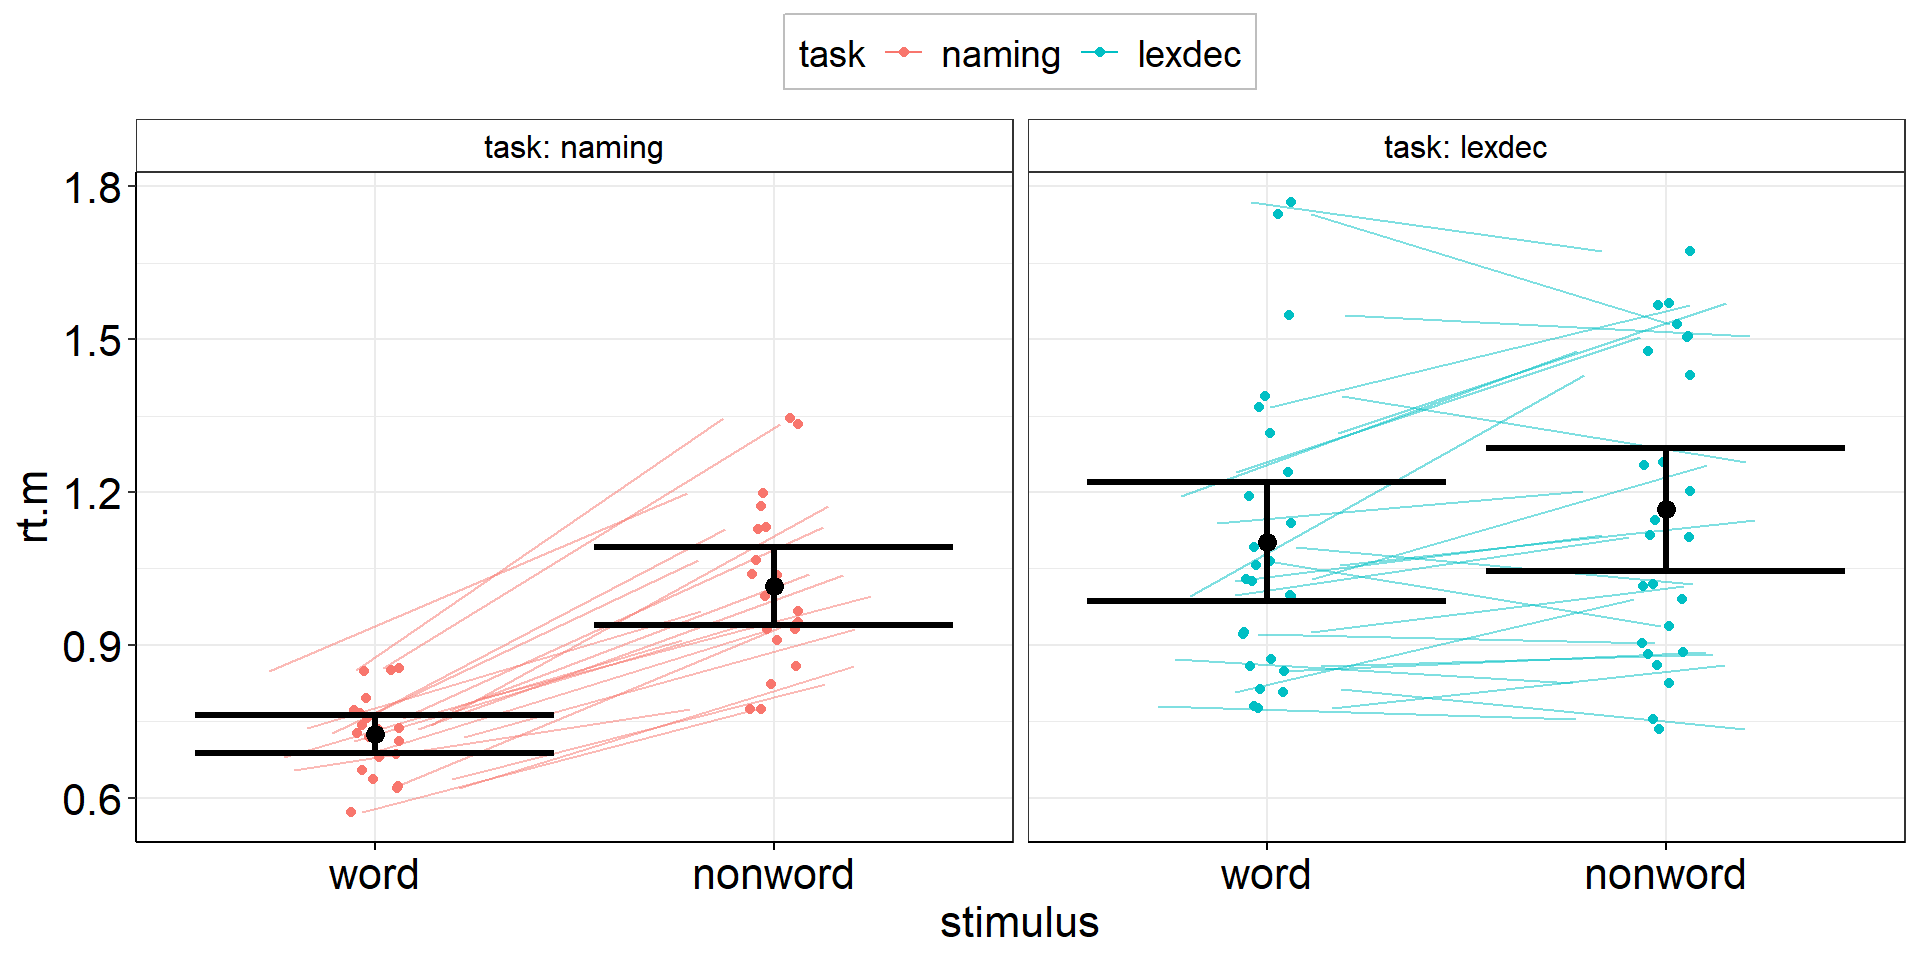
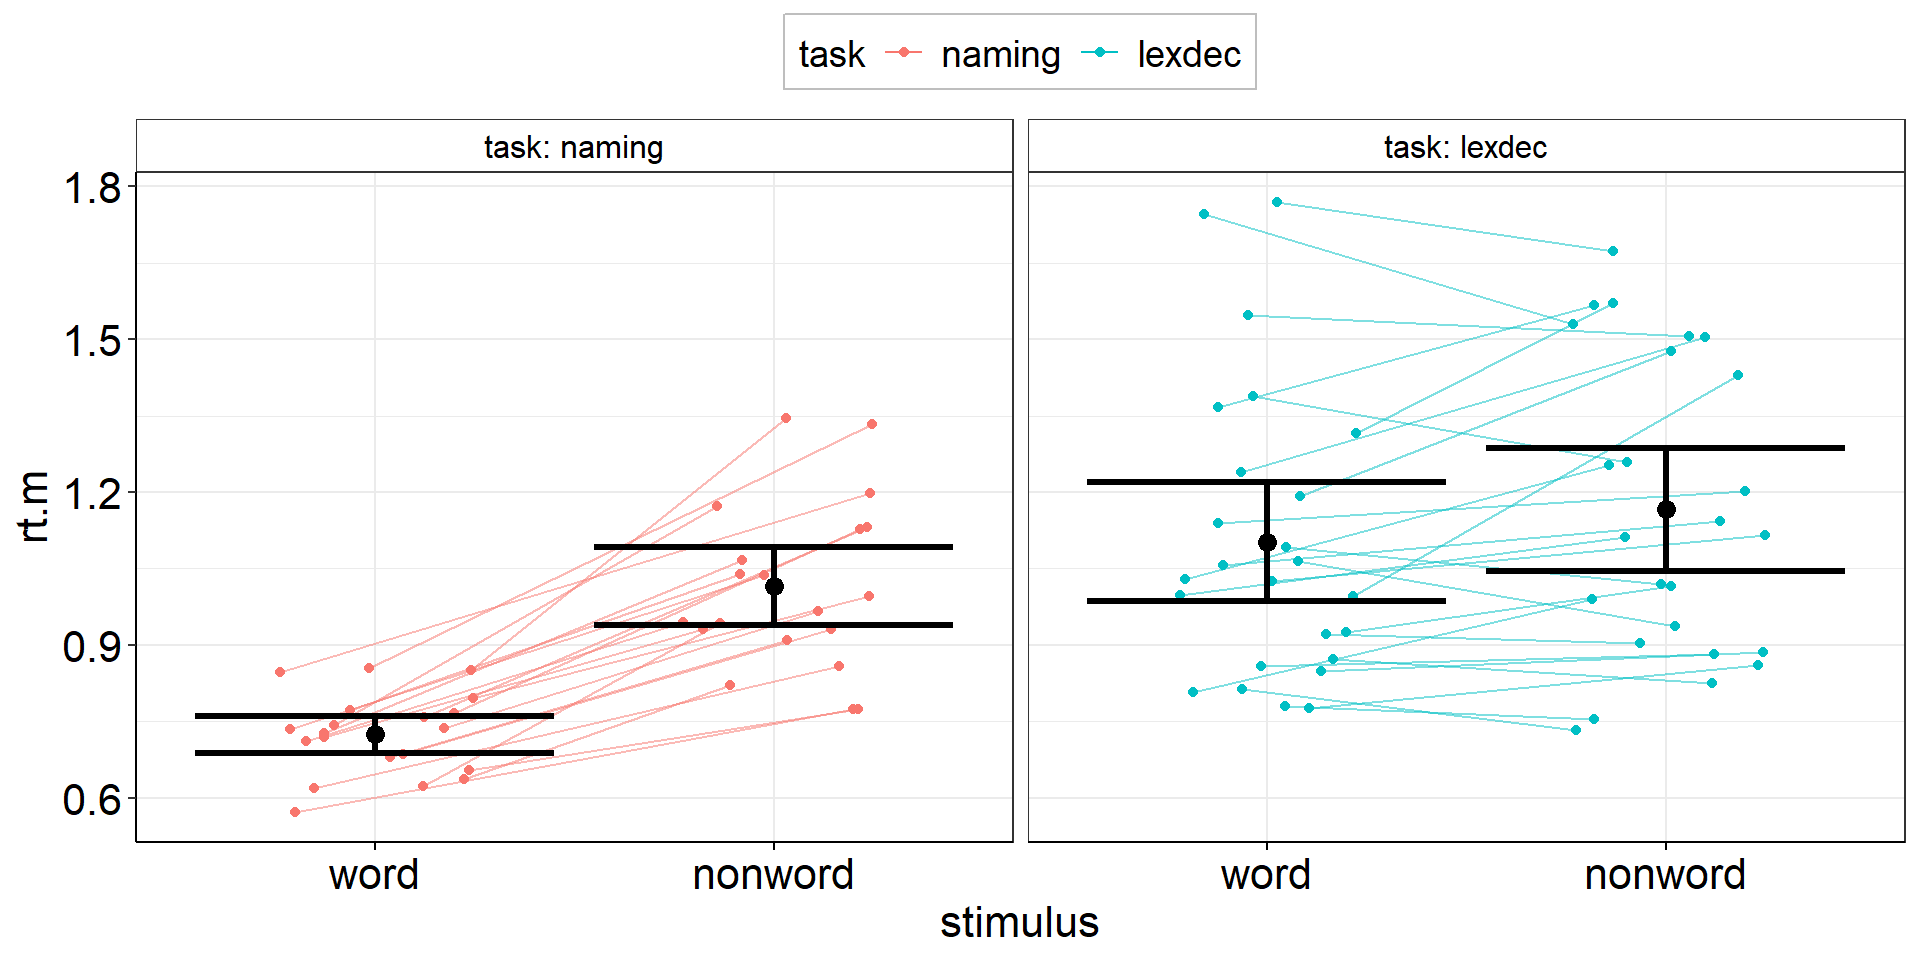
reveal code line numbers + adjust comments

diff --git a/docs/2.3_Uncertainty_Viz.html b/docs/2.3_Uncertainty_Viz.html
@@ -1218,6 +1218,35 @@ But, hey! It's at least one additional level of information! &#128517;
 <span id="cb35-6"><a></a>  )</span></code><button title="Copy to Clipboard" class="code-copy-button"><i class="bi"></i></button></pre></div>
 </div>
 
+</section>
+<section id="jittered-points-output" class="slide level2 output-location-slide"><h2>Jittered Points</h2><div class="cell output-location-slide">
+<div class="cell-output-display">
+<div>
+<figure>
+<p><img data-src="2.3_Uncertainty_Viz_files/figure-revealjs/unnamed-chunk-37-1.png" width="960"></p>
+</figure>
+</div>
+</div>
+</div></section><section id="jittered-points-with-individual-slopes" class="slide level2">
+<h2>Jittered Points with Individual Slopes</h2>
+<p>Only <code>geom_path()</code> is able to align points + lines! <code>geom_line()</code> will not work here. (Ordering can be important: <code>geom_path()</code> connects the observations in the order in which they appear in the data.)</p>
+<div class="cell">
+<div class="sourceCode cell-code" id="cb36" data-code-line-numbers="2-5|6-10|4,9"><pre class="sourceCode numberSource r number-lines code-with-copy"><code class="sourceCode r"><span id="cb36-1"><a></a>aov3 <span class="sc">+</span></span>
+<span id="cb36-2"><a></a>  <span class="fu">geom_jitter</span>(</span>
+<span id="cb36-3"><a></a>    <span class="at">data =</span> fhch2010_summary <span class="sc">%&gt;%</span> <span class="fu">rename</span>(<span class="at">rt.m =</span> rt),</span>
+<span id="cb36-4"><a></a>    <span class="at">position =</span> <span class="fu">position_jitter</span>(<span class="at">width =</span> .<span class="dv">25</span>, <span class="at">seed =</span> <span class="dv">1337</span>), <span class="co">#same seed needed!</span></span>
+<span id="cb36-5"><a></a>  ) <span class="sc">+</span></span>
+<span id="cb36-6"><a></a>  <span class="fu">geom_path</span>( <span class="co">#add individual slopes</span></span>
+<span id="cb36-7"><a></a>    <span class="at">data =</span> fhch2010_summary <span class="sc">%&gt;%</span> <span class="fu">rename</span>(<span class="at">rt.m =</span> rt), </span>
+<span id="cb36-8"><a></a>    <span class="fu">aes</span>(<span class="at">group =</span> id),</span>
+<span id="cb36-9"><a></a>    <span class="at">position =</span> <span class="fu">position_jitter</span>(<span class="at">width =</span> .<span class="dv">25</span>, <span class="at">seed =</span> <span class="dv">1337</span>), <span class="co">#same seed needed!</span></span>
+<span id="cb36-10"><a></a>    <span class="at">alpha =</span> .<span class="dv">5</span>) <span class="sc">+</span></span>
+<span id="cb36-11"><a></a>  <span class="co">#plot group-level information again (on top) but black and bigger</span></span>
+<span id="cb36-12"><a></a>  <span class="fu">geom_point</span>(<span class="at">position =</span> <span class="fu">position_dodge</span>(.<span class="dv">9</span>), <span class="at">color =</span> <span class="st">"black"</span>, <span class="at">size =</span> <span class="dv">3</span>) <span class="sc">+</span> </span>
+<span id="cb36-13"><a></a>  <span class="fu">geom_errorbar</span>(<span class="fu">aes</span>(<span class="at">ymin =</span> rt.m.low, <span class="at">ymax =</span> rt.m.high), <span class="at">position =</span> <span class="fu">position_dodge</span>(.<span class="dv">9</span>), </span>
+<span id="cb36-14"><a></a>                <span class="at">color =</span> <span class="st">"black"</span>, <span class="at">size =</span> <span class="fl">1.125</span>)</span></code><button title="Copy to Clipboard" class="code-copy-button"><i class="bi"></i></button></pre></div>
+</div>
+
 <!--
 ## Jittered Points with Individual Slopes
 
@@ -1246,7 +1275,7 @@ aov3 +
 ```
 
 ::: {.cell-output-display}
-![](2.3_Uncertainty_Viz_files/figure-revealjs/unnamed-chunk-38-1.png){width=960}
+![](2.3_Uncertainty_Viz_files/figure-revealjs/unnamed-chunk-39-1.png){width=960}
 :::
 :::
 
@@ -1259,38 +1288,38 @@ fhch2010_summary %>%
 ```
 
 ::: {.cell-output-display}
-![](2.3_Uncertainty_Viz_files/figure-revealjs/unnamed-chunk-39-1.png){width=960}
+![](2.3_Uncertainty_Viz_files/figure-revealjs/unnamed-chunk-40-1.png){width=960}
 :::
 :::
 
 -->
 </section>
-<section id="jittered-points-output" class="slide level2 output-location-slide"><h2>Jittered Points</h2><div class="cell output-location-slide">
+<section id="jittered-points-with-individual-slopes-output" class="slide level2 output-location-slide"><h2>Jittered Points with Individual Slopes</h2><div class="cell output-location-slide">
 <div class="cell-output-display">
 <div>
 <figure>
-<p><img data-src="2.3_Uncertainty_Viz_files/figure-revealjs/unnamed-chunk-37-1.png" width="960"></p>
+<p><img data-src="2.3_Uncertainty_Viz_files/figure-revealjs/unnamed-chunk-38-1.png" width="960"></p>
 </figure>
 </div>
 </div>
 </div></section><section id="density" class="slide level2">
 <h2>Density</h2>
 <div class="cell">
-<div class="sourceCode cell-code" id="cb36" data-code-line-numbers="2"><pre class="sourceCode numberSource r number-lines code-with-copy"><code class="sourceCode r"><span id="cb36-1"><a></a>aov3 <span class="sc">+</span></span>
-<span id="cb36-2"><a></a>  <span class="fu">geom_violin</span>( <span class="co"># experts can try ggbeeswarm::geom_beeswarm()</span></span>
-<span id="cb36-3"><a></a>    <span class="at">data =</span> fhch2010_summary <span class="sc">%&gt;%</span> <span class="fu">rename</span>(<span class="at">rt.m =</span> rt), <span class="co">#conform to naming in aov3</span></span>
-<span id="cb36-4"><a></a>    <span class="co">#aes(y = rt.m, x = stimulus), #inherited from aov3</span></span>
-<span id="cb36-5"><a></a>    <span class="fu">aes</span>(<span class="at">fill =</span> task), <span class="co">#dotplot dots have color = outer border, fill = inner color</span></span>
-<span id="cb36-6"><a></a>    <span class="at">alpha =</span> .<span class="dv">5</span></span>
-<span id="cb36-7"><a></a>  ) <span class="sc">+</span></span>
-<span id="cb36-8"><a></a>  <span class="fu">geom_line</span>( <span class="co">#add individual slopes</span></span>
-<span id="cb36-9"><a></a>    <span class="at">data =</span> fhch2010_summary <span class="sc">%&gt;%</span> <span class="fu">rename</span>(<span class="at">rt.m =</span> rt), <span class="co">#conform to naming in aov3</span></span>
-<span id="cb36-10"><a></a>    <span class="fu">aes</span>(<span class="at">group =</span> id), <span class="co">#one line for each subject; sometimes you need: group = interaction(id, task)</span></span>
-<span id="cb36-11"><a></a>    <span class="at">alpha =</span> .<span class="dv">5</span>) <span class="sc">+</span></span>
-<span id="cb36-12"><a></a>  <span class="co">#plot group-level information again (on top) but black and bigger</span></span>
-<span id="cb36-13"><a></a>  <span class="fu">geom_point</span>(<span class="at">position =</span> <span class="fu">position_dodge</span>(.<span class="dv">9</span>), <span class="at">color =</span> <span class="st">"black"</span>, <span class="at">size =</span> <span class="dv">3</span>) <span class="sc">+</span> </span>
-<span id="cb36-14"><a></a>  <span class="fu">geom_errorbar</span>(<span class="fu">aes</span>(<span class="at">ymin =</span> rt.m.low, <span class="at">ymax =</span> rt.m.high), <span class="at">position =</span> <span class="fu">position_dodge</span>(.<span class="dv">9</span>), </span>
-<span id="cb36-15"><a></a>                <span class="at">color =</span> <span class="st">"black"</span>, <span class="at">size =</span> <span class="fl">1.125</span>)</span></code><button title="Copy to Clipboard" class="code-copy-button"><i class="bi"></i></button></pre></div>
+<div class="sourceCode cell-code" id="cb37" data-code-line-numbers="2"><pre class="sourceCode numberSource r number-lines code-with-copy"><code class="sourceCode r"><span id="cb37-1"><a></a>aov3 <span class="sc">+</span></span>
+<span id="cb37-2"><a></a>  <span class="fu">geom_violin</span>( </span>
+<span id="cb37-3"><a></a>    <span class="at">data =</span> fhch2010_summary <span class="sc">%&gt;%</span> <span class="fu">rename</span>(<span class="at">rt.m =</span> rt), <span class="co">#conform to naming in aov3</span></span>
+<span id="cb37-4"><a></a>    <span class="co">#aes(y = rt.m, x = stimulus), #inherited from aov3</span></span>
+<span id="cb37-5"><a></a>    <span class="fu">aes</span>(<span class="at">fill =</span> task), <span class="co">#dotplot dots have color = outer border, fill = inner color</span></span>
+<span id="cb37-6"><a></a>    <span class="at">alpha =</span> .<span class="dv">5</span></span>
+<span id="cb37-7"><a></a>  ) <span class="sc">+</span></span>
+<span id="cb37-8"><a></a>  <span class="fu">geom_line</span>( <span class="co">#add individual slopes</span></span>
+<span id="cb37-9"><a></a>    <span class="at">data =</span> fhch2010_summary <span class="sc">%&gt;%</span> <span class="fu">rename</span>(<span class="at">rt.m =</span> rt), <span class="co">#conform to naming in aov3</span></span>
+<span id="cb37-10"><a></a>    <span class="fu">aes</span>(<span class="at">group =</span> id), <span class="co">#one line for each subject; sometimes you need: group = interaction(id, task)</span></span>
+<span id="cb37-11"><a></a>    <span class="at">alpha =</span> .<span class="dv">5</span>) <span class="sc">+</span></span>
+<span id="cb37-12"><a></a>  <span class="co">#plot group-level information again (on top) but black and bigger</span></span>
+<span id="cb37-13"><a></a>  <span class="fu">geom_point</span>(<span class="at">position =</span> <span class="fu">position_dodge</span>(.<span class="dv">9</span>), <span class="at">color =</span> <span class="st">"black"</span>, <span class="at">size =</span> <span class="dv">3</span>) <span class="sc">+</span> </span>
+<span id="cb37-14"><a></a>  <span class="fu">geom_errorbar</span>(<span class="fu">aes</span>(<span class="at">ymin =</span> rt.m.low, <span class="at">ymax =</span> rt.m.high), <span class="at">position =</span> <span class="fu">position_dodge</span>(.<span class="dv">9</span>), </span>
+<span id="cb37-15"><a></a>                <span class="at">color =</span> <span class="st">"black"</span>, <span class="at">size =</span> <span class="fl">1.125</span>)</span></code><button title="Copy to Clipboard" class="code-copy-button"><i class="bi"></i></button></pre></div>
 </div>
 
 </section>
@@ -1298,7 +1327,7 @@ fhch2010_summary %>%
 <div class="cell-output-display">
 <div>
 <figure>
-<p><img data-src="2.3_Uncertainty_Viz_files/figure-revealjs/unnamed-chunk-40-1.png" width="960"></p>
+<p><img data-src="2.3_Uncertainty_Viz_files/figure-revealjs/unnamed-chunk-41-1.png" width="960"></p>
 </figure>
 </div>
 </div>
